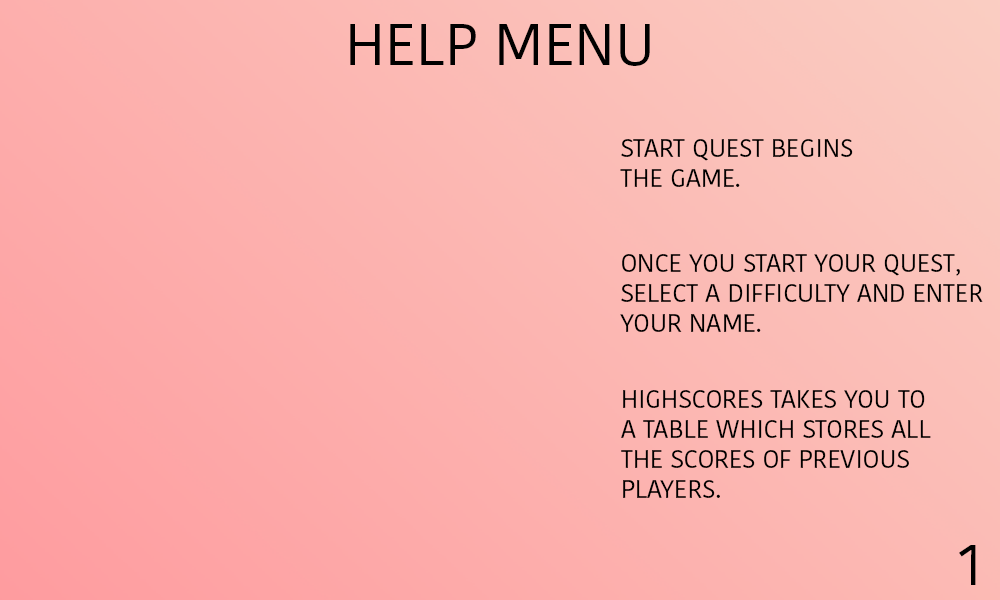
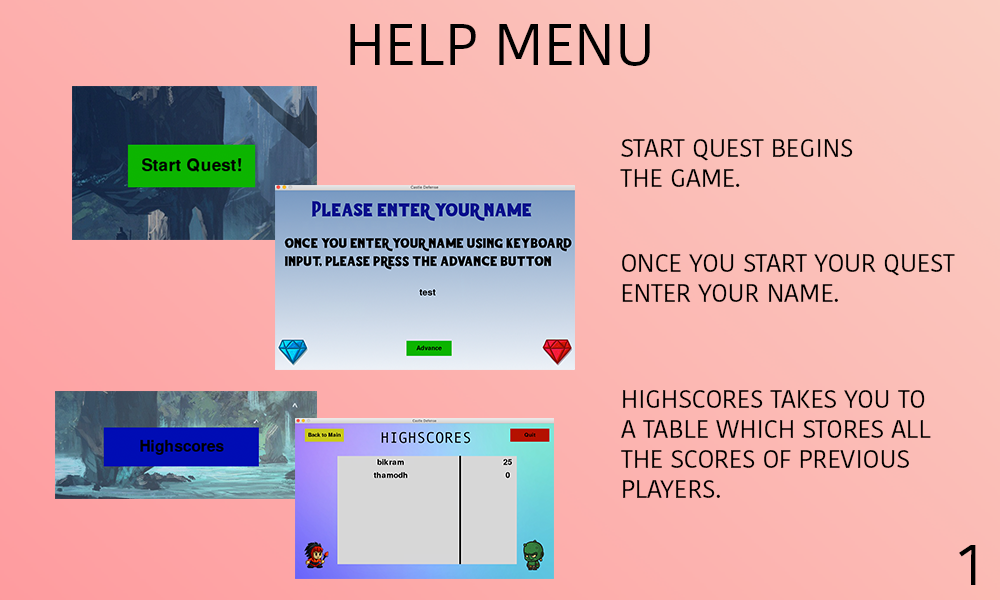
Added pictures to the help menu

Changed region(s): [[0.031, 0.12, 0.589, 0.99], [0.62, 0.45, 0.992, 0.57]]

diff --git a/src/Run.py b/src/Run.py
@@ -64,6 +64,7 @@ helpMenu2Img = pygame.image.load('Images/Help-Menu2.png')
 helpMenu3Img = pygame.image.load('Images/Help-Menu3.png')
 helpMenu4Img = pygame.image.load('Images/Help-Menu4.png')
 helpMenu5Img = pygame.image.load('Images/Help-Menu5.png')
+helpMenu6Img = pygame.image.load('Images/Help-Menu6.png')
 
 pauseMenuImg = pygame.image.load('Images/Pause-Menu.png')
 nameMenuImg = pygame.image.load('Images/Name-Screen.png')
@@ -113,7 +114,6 @@ class Game_map:
 
         global pause
         
-
         while run:
 
             if time.time() - self.time > 1.8:
@@ -266,6 +266,9 @@ class Game_map:
             print(str(e) + "NOT VALID NAME")
 
 
+
+# --------------------------- END OF GAME MAP CLASS --------------------------------------------------
+
 # CREATE INSTANCE OF THE GAME MAP
 global g 
 g = Game_map()
@@ -314,11 +317,10 @@ def helpmenu1():
                 pygame.quit()
                 quit()
 
-    
         gameDisplay.blit(helpMenu1Img, (0, 0))
 
         make_button("Next", 10, 520, 100, 50, bright_yellow, yellow, helpmenu2)
-        make_button("Quit", 820, 20, 150, 50, bright_red, red, quitgame)
+       
 
         pygame.display.update()
         clock.tick(15)
@@ -335,7 +337,7 @@ def helpmenu2():
         gameDisplay.blit(helpMenu2Img, (0, 0))
 
         make_button("Next", 210, 520, 100, 50, bright_yellow, yellow, helpmenu3)
-        make_button("Quit", 820, 20, 150, 50, bright_red, red, quitgame)
+        
 
         pygame.display.update()
         clock.tick(15)
@@ -352,7 +354,7 @@ def helpmenu3():
         gameDisplay.blit(helpMenu3Img, (0, 0))
 
         make_button("Next", 410, 520, 100, 50, bright_yellow, yellow, helpmenu4)
-        make_button("Quit", 820, 20, 150, 50, bright_red, red, quitgame)
+        
 
         pygame.display.update()
         clock.tick(15)
@@ -369,7 +371,7 @@ def helpmenu4():
         gameDisplay.blit(helpMenu4Img, (0, 0))
 
         make_button("Next", 610, 520, 100, 50, bright_yellow, yellow, helpmenu5)
-        make_button("Quit", 820, 20, 150, 50, bright_red, red, quitgame)
+        
 
         pygame.display.update()
         clock.tick(15)
@@ -385,8 +387,25 @@ def helpmenu5():
 
         gameDisplay.blit(helpMenu5Img, (0, 0))
 
-        make_button("Main", 810, 520, 100, 50, bright_yellow, yellow, start)
-        make_button("Quit", 820, 20, 150, 50, bright_red, red, quitgame)
+        make_button("Next", 810, 520, 100, 50, bright_yellow, yellow, helpmenu6)
+        
+
+        pygame.display.update()
+        clock.tick(15)
+
+def helpmenu6():
+    help = True
+
+    while help:
+        for event in pygame.event.get():
+            if event.type == pygame.QUIT:
+                pygame.quit()
+                quit()
+
+        gameDisplay.blit(helpMenu6Img, (0, 0))
+
+        make_button("Main", 610, 520, 100, 50, bright_yellow, yellow, start)
+        
 
         pygame.display.update()
         clock.tick(15)
@@ -399,7 +418,6 @@ def gameloop():
     global g
 
     # CREATE GAME MAP INSTANCE
-    
     g = Game_map()
 
     gameloop = True
@@ -445,9 +463,10 @@ def name():
                         isLimitExceeded = True
                     elif(keys == 'space') and (not isLimitExceeded):
                         playerName += ' '
+                    elif(keys == 'return') and (not isLimitExceeded):
+                        playerName += ''
                     elif(not isLimitExceeded):
                         playerName += keys
-
 
                     largeText = pygame.font.Font('freesansbold.ttf', 30)
                     
@@ -455,13 +474,11 @@ def name():
                     TextRect.center = (510, 340)
                     gameDisplay.blit(nameMenuImg, (0, 0))
                     gameDisplay.blit(TextSurf, TextRect)
-
-            
+     
             if event.type == pygame.QUIT:
                 pygame.quit()
                 quit()
 
-        #gameDisplay.blit(nameMenuImg, (0, 0))
         if (len(playerName) > 0):
             make_button("Advance", 440, 500, 150, 50, bright_green, green, gameloop)
 
@@ -473,9 +490,13 @@ def highscores():
     highscores = True
 
     global g
+    global playerName
 
-    db.insert(playerName, g.points.get_points())
+    
+    if(playerName != ''):
+        db.insert(playerName, g.points.get_points())
 
+    
     while highscores:
         for event in pygame.event.get():
             if event.type == pygame.QUIT:
@@ -516,8 +537,6 @@ def highscores():
         pygame.display.update()
         clock.tick(15)
     
-
-
 def quitgame():
     pygame.quit()
     quit()
@@ -535,8 +554,6 @@ def paused():
                 pygame.quit()
                 quit()
                 
-
-
         gameDisplay.blit(pauseMenuImg, (0, 0))
 
         make_button("Resume", 150, 500, 150, 50, bright_green, green, unpaused)

diff --git a/src/Points.py b/src/Points.py
@@ -55,8 +55,6 @@ class Points:
         """
         return [self.assassin_kills, self.mage_kills, self.ogre_kills]
 
-    def add_total_score(self, name):
-        """
-        Add the final score to the Database.
-        """
-        self.db.insert(name, self.score)
+    def set_score_to_zero(self):
+        self.score = 0
+        return self.score
